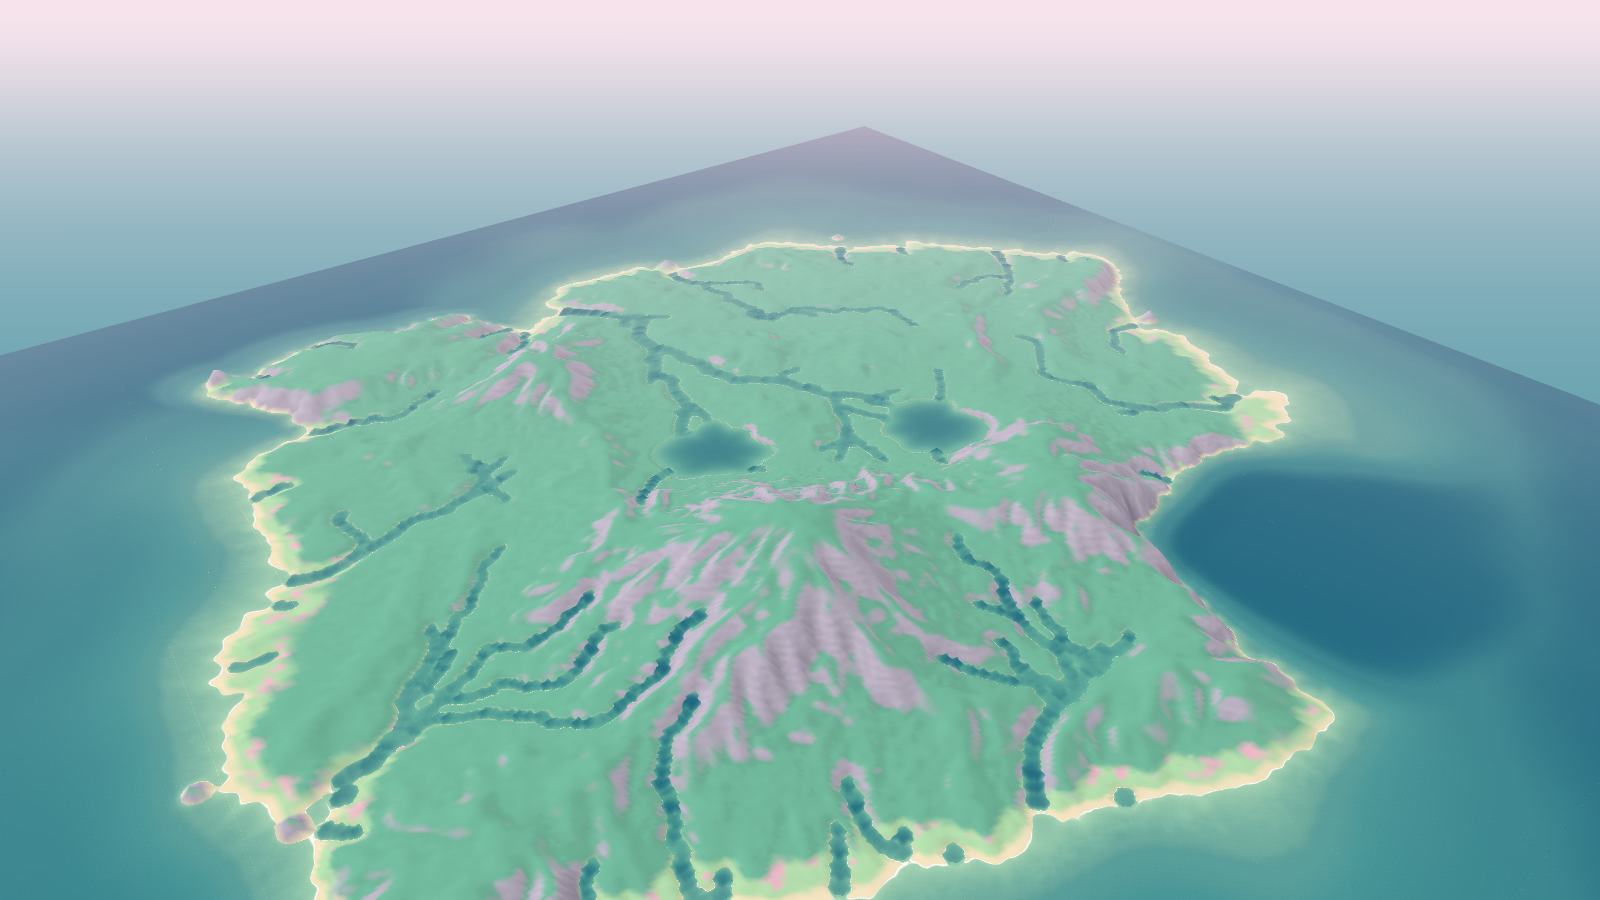
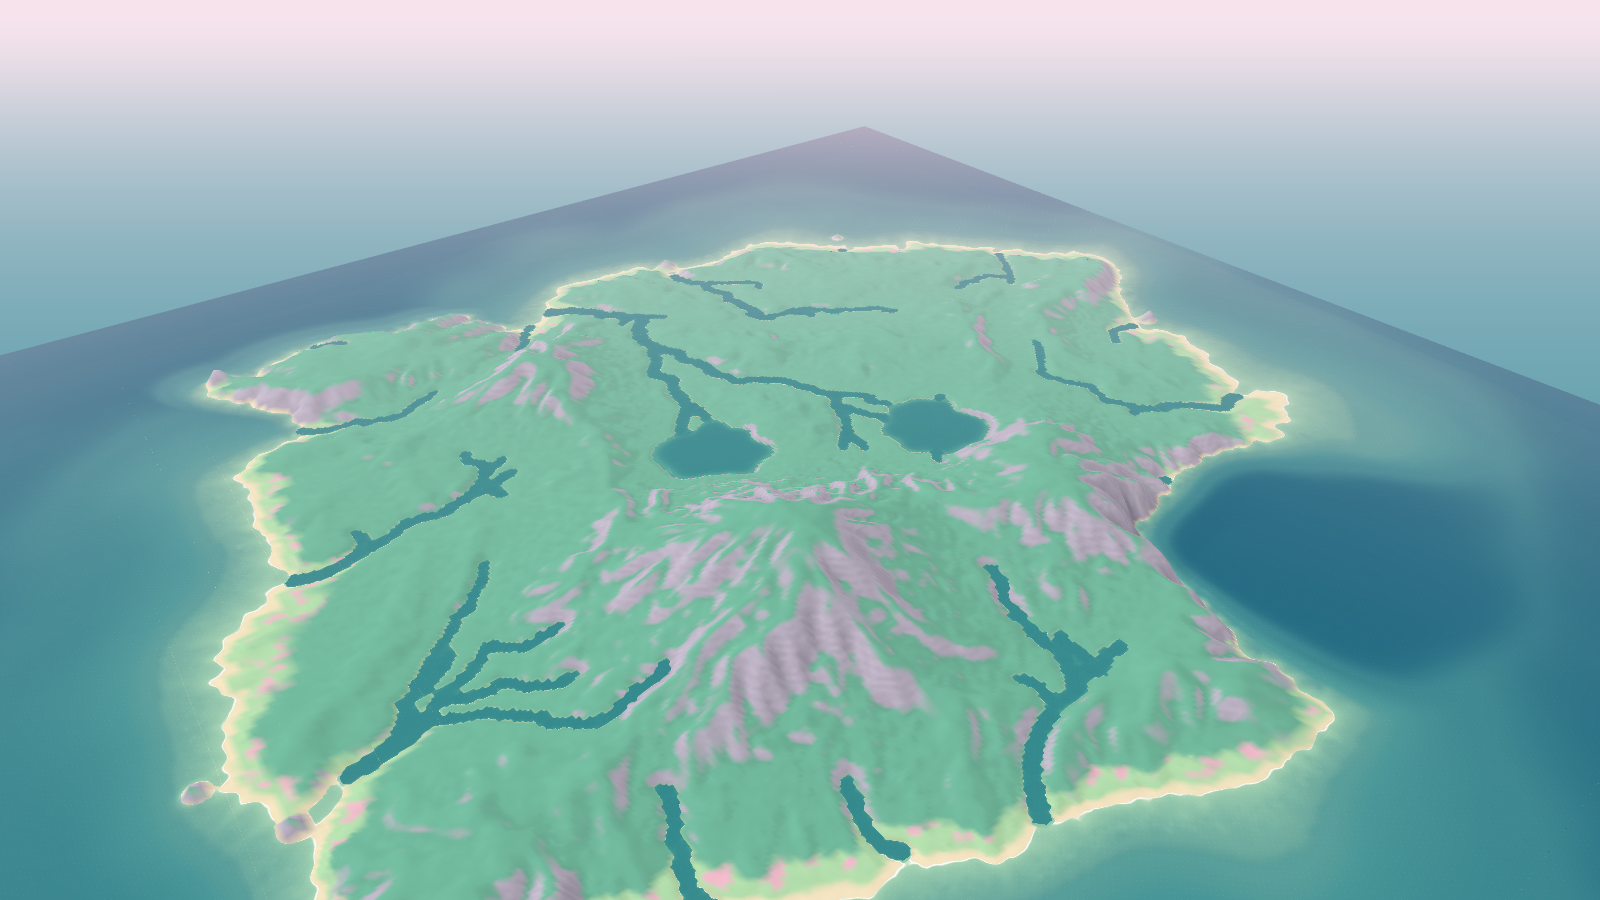
Rivers: single dilation, sparser network, lighter inland tint

diff --git a/src/main.js b/src/main.js
@@ -26,7 +26,7 @@ const waterMat=new THREE.ShaderMaterial({
     void main(){
       float d=vD; if(d<-0.02) discard;
       float k=mix(.11,3.,step(.8,vW.y));float t=1.-exp(-max(d,0.)*k);
-      vec3 col=mix(uShallow,uDeep,t);
+      vec3 col=mix(uShallow,uDeep,t*mix(1.,.62,step(.8,vW.y)));
       float w1=sin(uTime*.9+vW.x*.12+vW.z*.07),w2=sin(uTime*1.3-vW.z*.15+vW.x*.05);
       float band=.55+.22*w1+.14*w2;
       float foam=1.-smoothstep(band*.2,band*.55,d);

diff --git a/packages/island-gen/src/island.js b/packages/island-gen/src/island.js
@@ -183,7 +183,7 @@ export function createIsland(seedValue='petalwood',presetId='meadowCove',opts={}
 
   // de-bead rivers: dilate the water ribbon one cell and blur the carved bed so the channel is continuous
   {
-    for(let rep=0;rep<2;rep++){
+    for(let rep=0;rep<1;rep++){
     const w2=Float32Array.from(water);
     for(let j=1;j<N-1;j++)for(let i=1;i<N-1;i++){
       const k=j*N+i;if(water[k]>0) continue;
